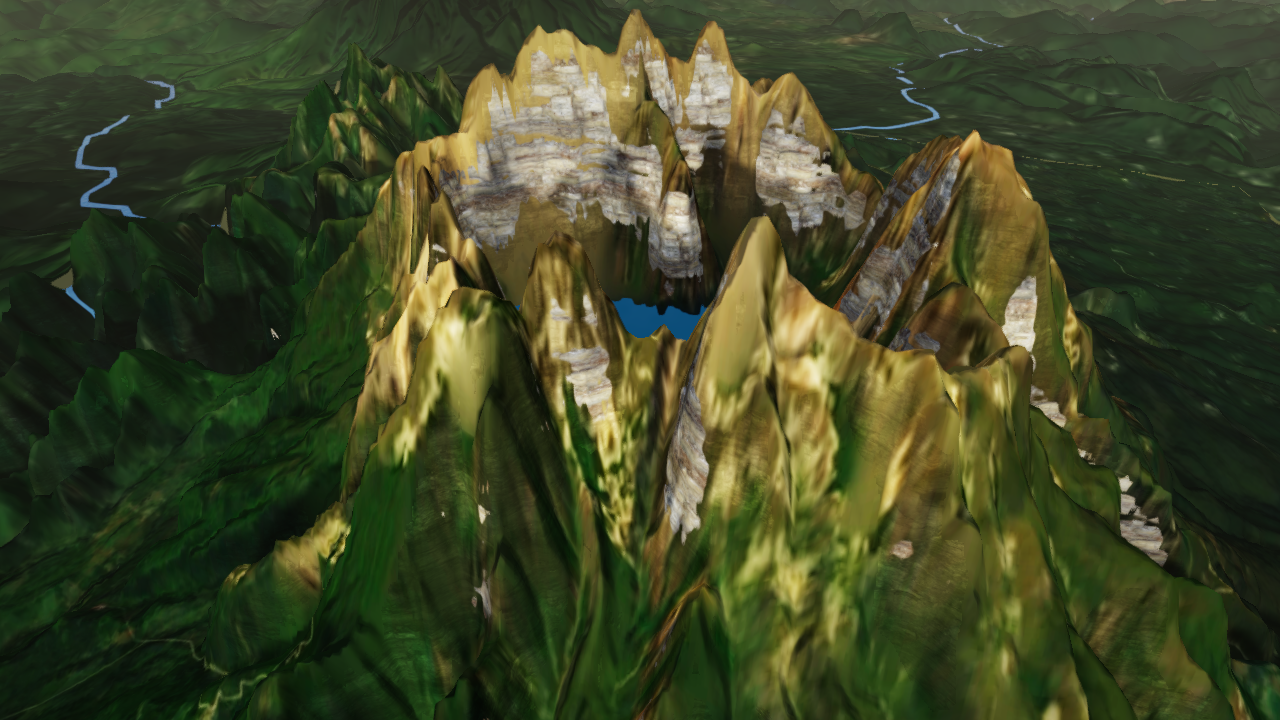
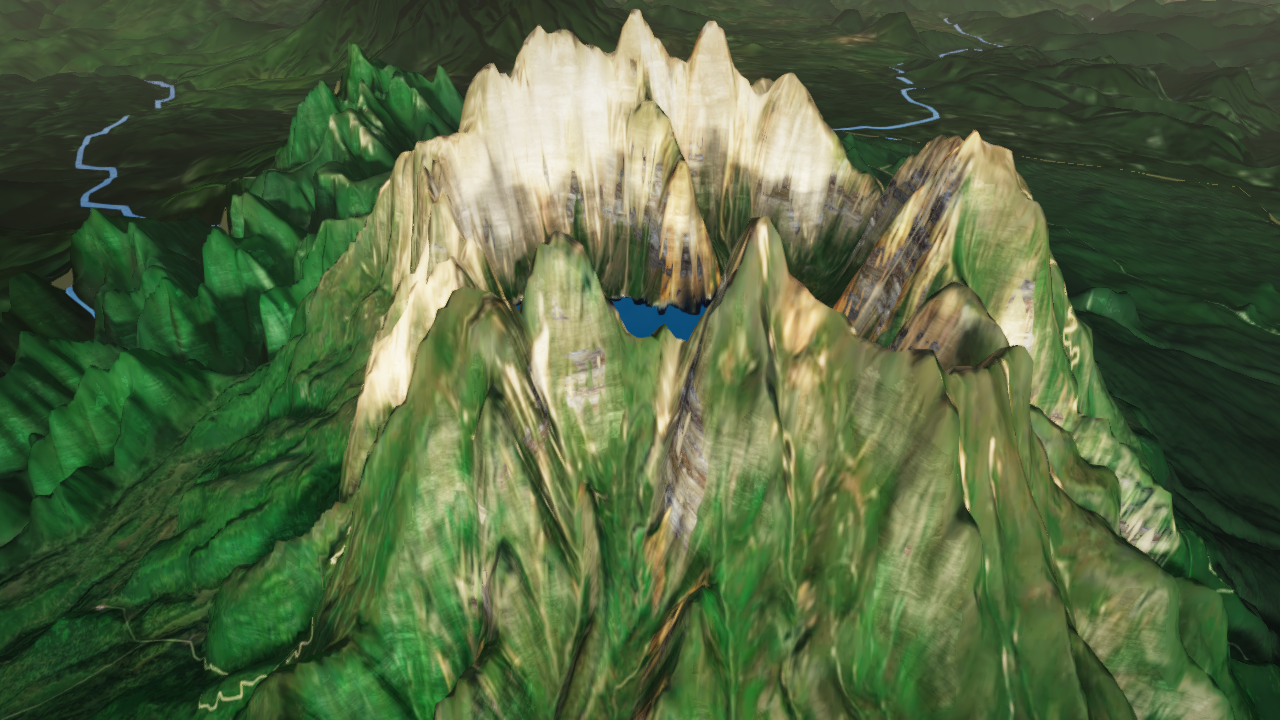
F99: Heaven Lake's crater from the summers after the melt
Checked the Roof and Heaven Lake for the winter shadows F98 took off the
Wall. Heaven Lake has none; the Roof has low-sun shading, brown not black,
at 0-43 s and 80-103 s, left as the next lever. The check found Changbai's
crater a cloud-fill smear in the 2016 mosaic instead, so its hero area is
composited from the Sentinel-2 archive, from June to August alone
(composite.MONTHS): April and May lay snow on the rim and ice on the lake.
Still 06 retaken and signed off; the cover redrawn. Film 1,062.5 MB.

diff --git a/pipeline/nineskies/composite.py b/pipeline/nineskies/composite.py
@@ -91,9 +91,14 @@ MAX_ITEM_CLOUD = 70
 #: The hero areas composited: the ones the 2016 mosaic leaves most cloud in.
 SOUTH = ("tiger-leaping-gorge", "three-gorges", "guilin", "huangshan")
 #: And Everest's, whose mosaic was cut from winter's clear passes, with the
-#: low sun's shadows black on its north faces (F98). It takes the tone line
-#: fitted over the south's four rather than joining the fit.
-COMPOSITED = (*SOUTH, "everest")
+#: low sun's shadows black on its north faces (F98); and Changbai's, whose
+#: crater the mosaic had under cloud and filled with a blur (F99). They take
+#: the tone line fitted over the south's four rather than joining the fit.
+COMPOSITED = (*SOUTH, "everest", "changbai")
+#: The months an area's passes are taken from, where not every month a high
+#: sun allows. Changbai's crater keeps its snow, and its lake its ice, into
+#: June, and April and May would lay both on the scene's August (F99).
+MONTHS = {"changbai": (6, 7, 8)}
 #: Metres a pixel the source is read at: the true colour's own 10 m, which the
 #: finest colour tiles are cut at (`imagery.FINE_CELLS`).
 READ_M = 10
@@ -339,7 +344,10 @@ def choose(area: imagery.Area, items: list[dict]) -> list[dict]:
     """The passes read over an area: each MGRS tile's clearest (`select`).
     Over the southern rails' sub-tiles, each tile's from each orbit that
     sees it, as the country's are (F90): taken by tile alone, a strip only
-    the other orbit sees was left with a view or two (F95)."""
+    the other orbit sees was left with a view or two (F95). Only from the
+    area's `MONTHS`, where it has them."""
+    if area.key in MONTHS:
+        items = [i for i in items if int(i["datetime"][5:7]) in MONTHS[area.key]]
     if area.lattice != NEAR:
         return select(items, PER_TILE)
     by_orbit: dict[str, list[dict]] = {}

diff --git a/pipeline/tests/test_composite.py b/pipeline/tests/test_composite.py
@@ -54,6 +54,13 @@ class TestChoosing(unittest.TestCase):
         self.assertEqual(len(chosen), 8)
         self.assertFalse({"murk", "winter"} & {i["id"] for i in chosen})
 
+    def test_changbai_is_read_after_the_melt(self):
+        items = [item(f"m{m}", m, 0.9) for m in range(4, 9)]
+        area = lambda key: imagery.Area(key=key, lattice="hero", tile_m=11_520, tx0=0, ty0=0, tiles_x=1, tiles_y=1)
+        self.assertEqual([i["id"] for i in composite.choose(area("changbai"), items)], ["m6", "m7", "m8"])
+        # Everywhere else, every month a high sun allows.
+        self.assertEqual(len(composite.choose(area("everest"), items)), 5)
+
 
 @unittest.skipUnless(HAVE_NUMPY and HAVE_RASTERIO, "numpy and rasterio")
 class TestTheGrid(unittest.TestCase):

diff --git a/docs/findings.md b/docs/findings.md
@@ -1954,3 +1954,73 @@ colour compresses less well than the mosaic's.
 
 **Next.** Where else the mosaic's winter bakes north faces black: the
 Roof's plateau beyond the Wall's tiles, Heaven Lake's crater.
+
+## F99 — Heaven Lake's crater from the summers after the melt, 25 September 2026
+
+**Why.** Asked to check the Roof and Heaven Lake for the winter shadows F98
+took off the Wall, measured on the colour as shipped: steep north faces
+against steep south faces, on the relief's own GLO-30 normals (F93, F94).
+Calibrated on the Wall's ground, where both are to hand, north faces darker
+than all but a tenth of south faces are a tenth of them where the light was
+high (the archive, 7 %) and a fifth where it was winter's (the mosaic,
+17 to 19 %). By stretch of rail:
+
+| Ground | North faces over south | Light |
+| --- | ---: | --- |
+| The Roof, Qinghai Lake to Madoi (0-43 s) | 0.72 | low: winter to spring |
+| The Roof, east of the Hoh Xil (80-103 s) | 0.79 | low |
+| The Roof, Tuotuohe to Nagqu (130-195 s) | 0.96 | high, snow on the north faces |
+| The Roof, Namtso to Lhasa (195-237 s) | 1.17 | the archive's since F98 |
+| Heaven Lake, round the volcano | 0.85-0.86 | high: summer |
+
+A summer mid-morning sun leaves a north face of 25 to 35° about 0.89 as
+bright as a south one; an equinox one about half, a winter one a third,
+with the sky's light. Heaven Lake has no winter
+shadows. The Roof's two low-sun stretches are brown, not black: the ground
+is dry and holds no snow, and the shaded faces are dark earth. On screen,
+such shading is hills striped light and dark across the scene's own light,
+which is ahead in the west; the Roof's still, at 60 s just past the first
+stretch, has it mildly. Not changed here (Next).
+
+**What the check found at Heaven Lake instead.** The mosaic had the crater
+under cloud, and the cut filled it from the ground round it (F87): the
+inner walls, and the south half of the lake, were a smear, and they are
+what the camera looks down on from 90 s. The water layer draws the lake
+over its half, but not the walls.
+
+**So Changbai's hero area is the archive's,** as F98 did Everest's:
+- *June to August only* (`composite.MONTHS`). A high sun at 42° N allows
+  April to August, but the crater's clear views are snow in 95 % of April's
+  and 58 % of May's, 4 % of June's and none after, and its lake is ice.
+  Every allowed month laid gullies of snow over the flanks and a grey ice
+  lake on the scene's August; the three months after the melt leave the
+  lake dark and the rim bare.
+- 100 passes, 50 from each of two Sentinel-2 tiles, 2.1 GB read at 10 m
+  (and 0.9 GB of April and May's, read to compare); 33 clear views a pixel
+  at the median, 0.07 % filled.
+- It takes the tone line fitted over the south's four and does not join
+  the fit: tone.json is unchanged.
+- *`make colour` composites it too* (`COMPOSITED`), and the notice says so.
+
+**What it looks like.** The crater is its own: the rim's pale pumice, grey
+and buff, the lake whole, forest to the rim's foot. The wall reads cream in
+the evening sun it faces; measured, it is a grey-buff of about 130 (sRGB),
+where the mosaic's smear was 100 and yellower, and four fifths of it is
+dark enough that the scene's rock face stays laid on it (F92). The flanks
+are a brighter green than the mosaic's olive, which was its haze.
+
+**The stills.** One changed, by more than 8 levels: Heaven Lake's, at
+108 s over the crater, by 76.7 %. The other eight are as they were, to the
+level. The cover's Heaven Lake card is that still, and the cover and the
+postcards are drawn again. Signed off (D77): the crater walls the rim's own
+pale pumice round a whole, dark lake, and the slopes below a brighter
+summer green than the mosaic's olive.
+
+**The film is 1,062.5 MB**, up 0.7 MB: Heaven Lake's pack 149.6 to
+150.4 MB, its hero area's 10 m colour 0.9 to 1.7 MB.
+
+**Next.**
+- *The Roof's first 43 s and 80-103 s,* from the archive as F98 did the
+  Wall: 86 sub-tiles along the rail and about 40 country tiles near it,
+  some 17 GB at the Wall's rate. Its gold would go greener: the archive's
+  months there are April to August, the mosaic's dry season's.

diff --git a/Nine Skies — Build Plan.md b/Nine Skies — Build Plan.md
@@ -16,7 +16,7 @@ inherits; their numbering continues here rather than starting again.
 | 4 — Delivery | **Done.** Nine packs, 16.4 MB with what is read before them (55.8 MB since the colour, F87); no tile fetched outside them; the build ships them. First frame on a phone over 4G is arithmetic, not measured. | F84 |
 | 5 — Text, sound, credits | **Text and credits done**, every figure in metric and imperial. **No sound**: a stand-in and a synthesised wind were both rejected, and all of it is to be found on the web (D85). | — |
 | 6 — Launch | Not started. | |
-| 7 — Detail | **Started.** The terrain lit smooth (D86); the ground coloured from the 2016 Sentinel-2 mosaic, and the four southern scenes, hero areas and country, from a median of the Sentinel-2 archive, 2018-2025; the hero tiles nearest the camera at 10 m, and the country's ground along each rail at 10 m too; the walls laid with photographed rock (Poly Haven's scans, CC0) over the photograph's own tone; the ground near the camera lit by its relief below the grid, from GLO-30 (125 m on the country, 30 m on the 90 m hero areas), and the country's ground along each rail at the source's own 31 m; the country within 40 km of the camera drawn at 500 m on a spline through its 1 km samples, the curtain along a hero rim lit as its ground, and the Wall at an exaggeration of three (D90), its ground from the archive's high suns rather than the mosaic's winter (F98); the country's 250 m colour from the mosaic's zoom 12, which lies where the ground is (F96). 1,061.8 MB of the 2 GB D89 allows; the terrain 2.0-2.3 ms at the northern stations and 5.7-6.3 at the southern (F95), and the 500 m level 0.3 to 0.9 ms more (F97); of the southern terrain, the walls' rock 0.6 to 1.2 ms and the relief nothing measurable (F96). Next: the walls' rock read fewer times a fragment; the mosaic's winter shadows wherever else north faces show them; the changed stills signed off (six from F92, seven from F93, three again from F94 and again from F95, six from F97, the Wall and the Roof from F98, the Roof and Below the Sea from F96). | F86, F87, F89, F90, F91, F92, F93, F94, F95, F96, F97, F98 |
+| 7 — Detail | **Started.** The terrain lit smooth (D86); the ground coloured from the 2016 Sentinel-2 mosaic, and the four southern scenes, hero areas and country, from a median of the Sentinel-2 archive, 2018-2025; the hero tiles nearest the camera at 10 m, and the country's ground along each rail at 10 m too; the walls laid with photographed rock (Poly Haven's scans, CC0) over the photograph's own tone; the ground near the camera lit by its relief below the grid, from GLO-30 (125 m on the country, 30 m on the 90 m hero areas), and the country's ground along each rail at the source's own 31 m; the country within 40 km of the camera drawn at 500 m on a spline through its 1 km samples, the curtain along a hero rim lit as its ground, and the Wall at an exaggeration of three (D90), its ground from the archive's high suns rather than the mosaic's winter (F98); the country's 250 m colour from the mosaic's zoom 12, which lies where the ground is (F96); Heaven Lake's crater from the archive's summers, where the mosaic had cloud (F99). 1,062.5 MB of the 2 GB D89 allows; the terrain 2.0-2.3 ms at the northern stations and 5.7-6.3 at the southern (F95), and the 500 m level 0.3 to 0.9 ms more (F97); of the southern terrain, the walls' rock 0.6 to 1.2 ms and the relief nothing measurable (F96). Next: the walls' rock read fewer times a fragment; the Roof's low-sun stretches, 0-43 s and 80-103 s, from the archive (F99); the changed stills signed off (six from F92, seven from F93, three again from F94 and again from F95, six from F97, the Wall and the Roof from F98, the Roof and Below the Sea from F96; Heaven Lake's from F99 is signed off). | F86, F87, F89, F90, F91, F92, F93, F94, F95, F96, F97, F98, F99 |
 
 Stages 0 to 4 and most of 3 and 5 took one day against five and a half
 weeks planned.

diff --git a/NOTICE.md b/NOTICE.md
@@ -57,7 +57,7 @@ film's Albers grid, cloud flecks filled from the ground around them, and
 re-encoded as WebP. Later years of the mosaic are CC BY-NC-SA 4.0 and are
 not used (F87).
 
-## The south's and the Wall's colour — Copernicus Sentinel-2
+## The south's, the Wall's and Heaven Lake's colour — Copernicus Sentinel-2
 
 Where that mosaic is most cloud, the south is coloured from the Sentinel-2
 archive instead: four hero areas (Tiger Leaping Gorge, the Three Gorges,
@@ -65,7 +65,9 @@ Guilin and Huangshan), the country tiles of their four scenes, and the
 ground along those scenes' rails at 10 m (F95). So is the Wall, where the
 mosaic was cut from winter's passes with every north face in shadow:
 Everest's hero area, the Wall's country tiles, 95 of them the Roof's too,
-and the ground along its rail and the Roof's on those tiles (F98). Their
+and the ground along its rail and the Roof's on those tiles (F98). So is
+Changbai's hero area, round Heaven Lake, whose crater the mosaic had under
+cloud (F99). Their
 colour tiles in `dist-world/<world>/colour/`, the scene packs that carry
 them and the stills rendered from them are the median of the clear views of
 Sentinel-2 Level-2A passes from 2018 to 2025, reprojected, toned to match
